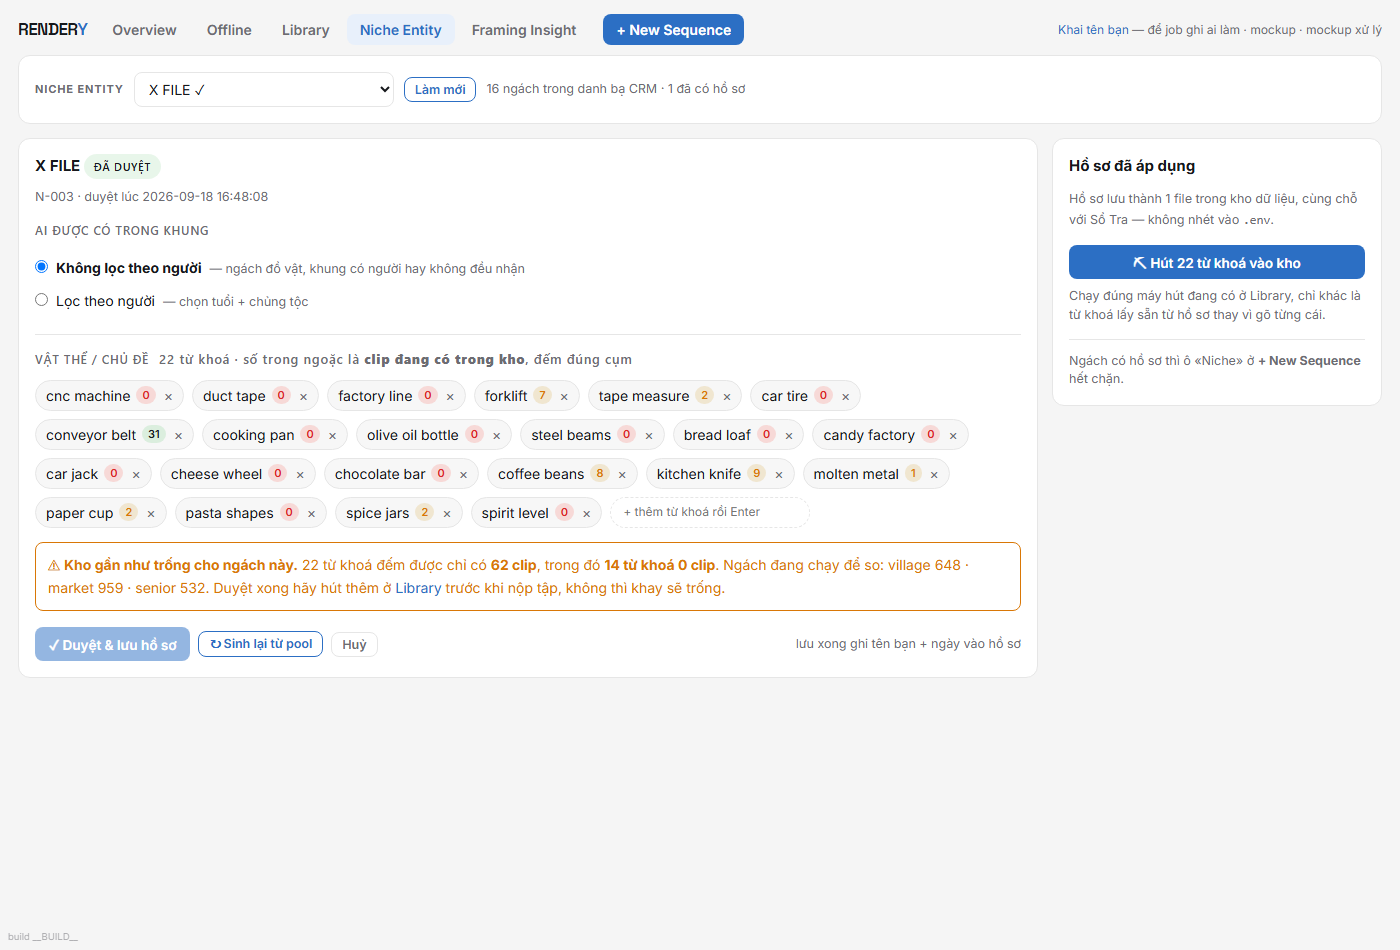
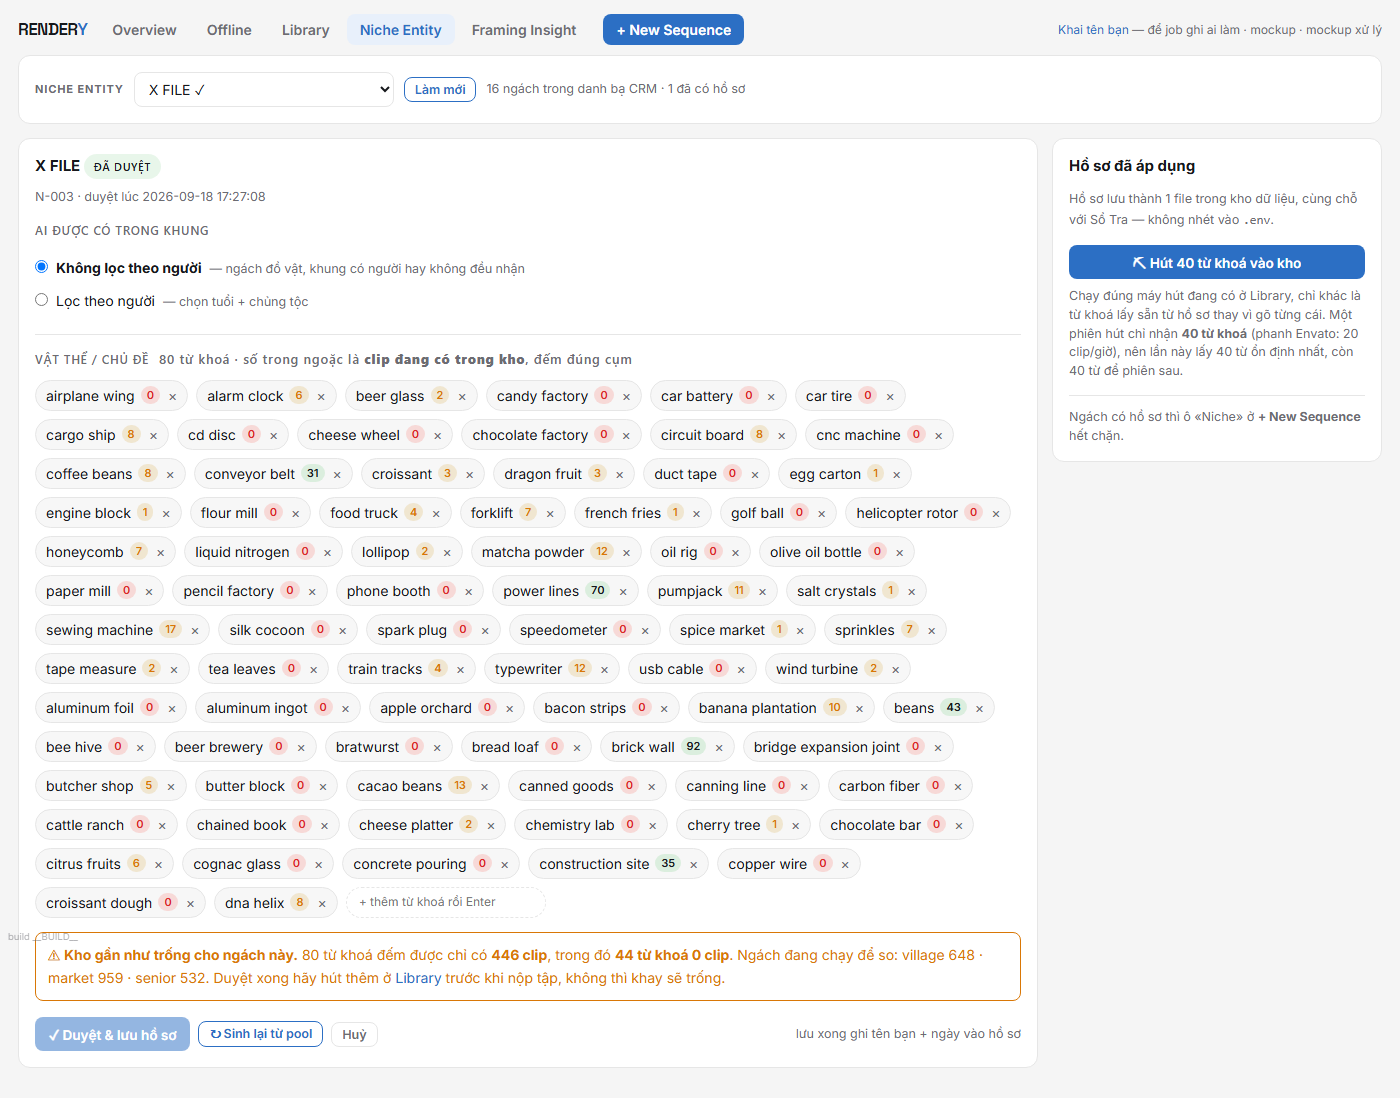
So: go 3 cai chot tu dat — tran tieu de, cach cat top-N, tran tu khoa

diff --git a/docs/LO_TRINH_8_VAN_DE.md b/docs/LO_TRINH_8_VAN_DE.md
@@ -2317,3 +2317,40 @@ Kho cho 22 từ khoá này: **62 clip, 14 từ khoá 0 clip** — vẫn phải h
 **Việc còn treo:** nút «✨ Sinh hồ sơ từ pool» hiện chỉ gọi GLM một lượt, nên người dùng
 bấm được đúng một lá thăm. Nên cho nó tự sinh vài lượt rồi giữ phần lặp lại, hoặc ít
 nhất nói rõ trên màn hình rằng bấm lại sẽ ra danh sách khác.
+
+
+## Bổ sung 18/09 tối — GỠ BA CÁI CHỐT TỰ TÔI ĐẶT
+
+User hỏi đúng chỗ: *"tại sao trong pool có gần 40 kênh và hơn 9000 video mà chỉ có
+từng này từ khoá?"*
+
+**Chốt 1 — pool nhỏ hơn tưởng, và đó là giới hạn của Radary.** 36 kênh của X FILE có
+**7.760 video thật trên YouTube** (trung vị 59/kênh), nhưng bảng `videos` của Radary
+chỉ giữ **675** (~19/kênh). RenderY đọc đúng bảng đó. Con số ~9000 là tổng video của
+các kênh, không phải số Radary lưu.
+
+**Chốt 2 — cắt "top N toàn cục" bỏ im cả kênh.** Đo: SPACE chỉ phủ 156/206 kênh có
+video, LIFE IN 97/126, và 5 kênh đăng dày nhất chiếm 171/600 suất. Vốn từ rút ra khi
+đó là vốn từ của mấy kênh khoẻ nhất, không phải của ngách. Đổi sang **lấy vòng tròn
+theo kênh** -> phủ 206/206 và 126/126. Trần 600 -> **2000** (trần cũ còn cắt oan 75
+tiêu đề của X FILE).
+
+**Chốt 3 — trần 24 từ khoá là con số tôi đặt theo cảm giác.** 675 tiêu đề chứa **1.303
+từ nội dung khác nhau**, 217 từ xuất hiện ≥3 lần. Pool thừa sức nuôi hàng trăm từ khoá.
+Nâng trần lên **80**, và nút Sinh tự chạy **3 lượt rồi giữ từ xuất hiện ≥2 lượt** —
+đúng việc trước đó phải làm tay.
+
+Kết quả đo trên chính pool X FILE:
+
+    truoc:  600/675 tieu de · 1 luot · tran 24  ->  22 tu khoa  ->   62 clip trong kho
+    nay  :  675/675 tieu de · 3 luot · tran 80  ->  80 tu khoa  ->  446 clip trong kho
+
+Thời gian 80-120 giây (3 lượt GLM) thay vì 15 giây — nhãn nút sửa theo số đo thật.
+
+**Máy hút giữ nguyên trần 40 từ khoá/phiên** vì trần đó đứng cạnh phanh Envato (20
+clip/giờ, gặp captcha dừng hẳn). Nút Hút nói rõ đang lấy 40 từ ổn định nhất và còn
+bao nhiêu để phiên sau, thay vì âm thầm cắt.
+
+**Bẫy gặp khi làm:** fixture test API dựng bảng `videos` thiếu cột `channel_yt_id` mà
+bảng thật có — pool im lặng trả rỗng qua đường fail-open, 6 test đỏ. Lại đúng bài
+"dữ liệu thử phải sát ca thật".
